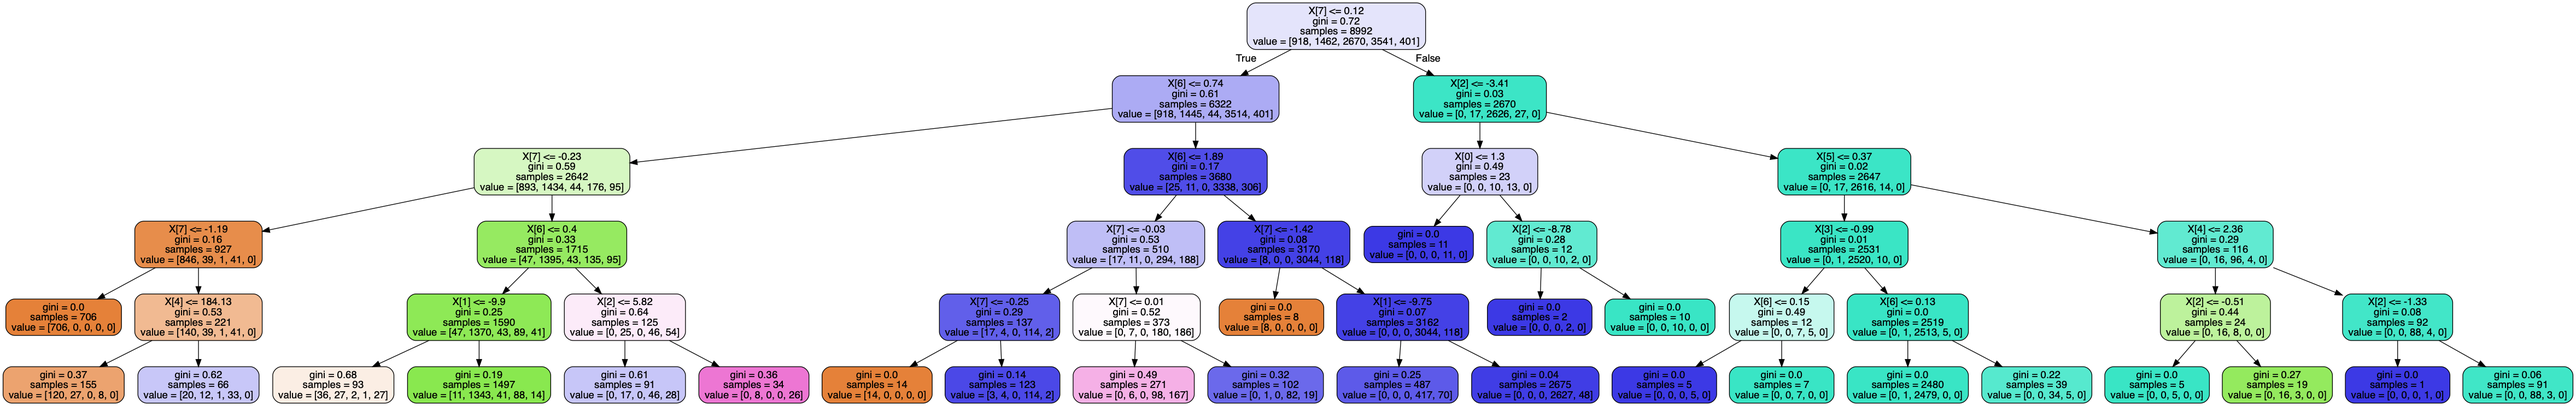
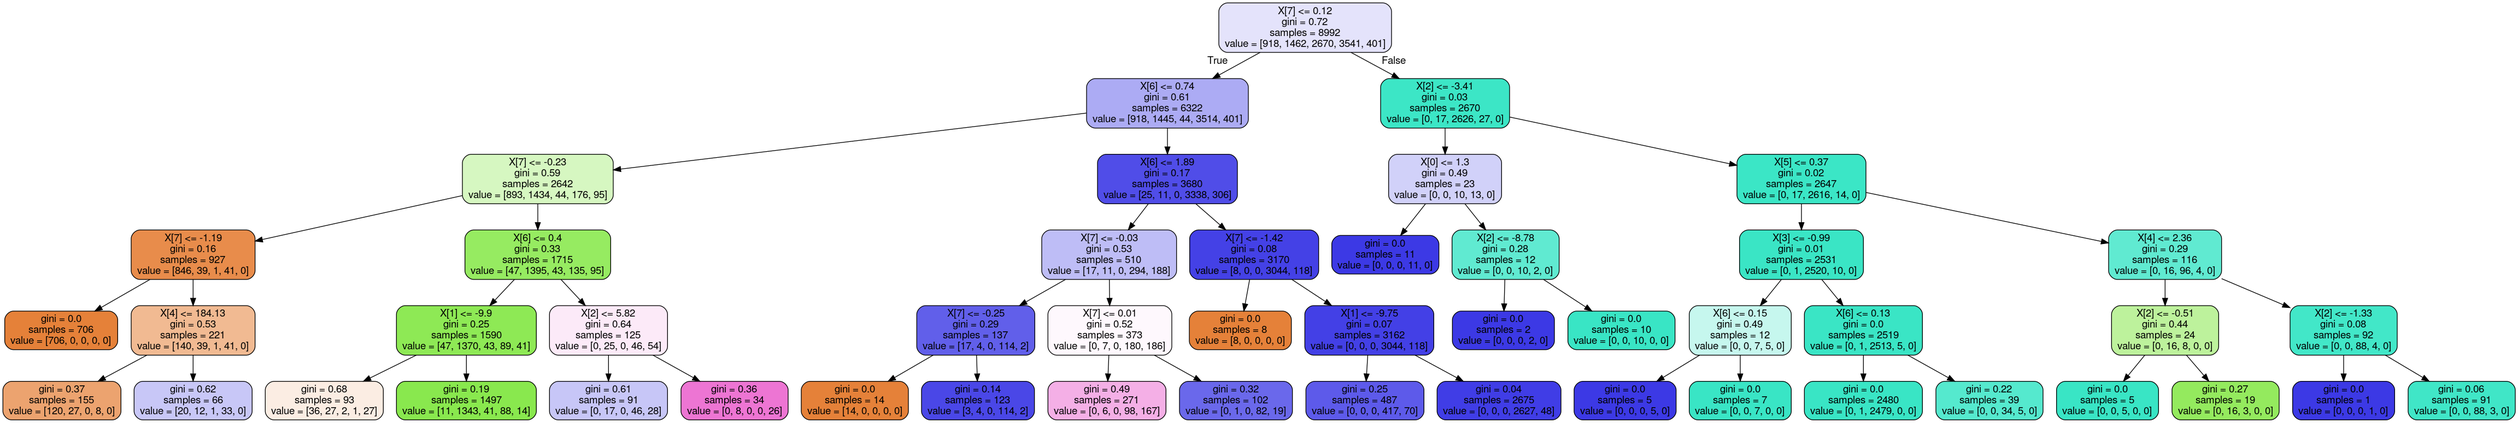
Fix small error in .dot to .png conversion

diff --git a/ClfDecisionTree.py b/ClfDecisionTree.py
@@ -24,9 +24,9 @@ from subprocess import call
 # Imports data being used for training as csv 
 def importTrainData():
 	# Lab Desktop
-	#balance_train_data = pd.read_csv('/home/user1/Documents/ManeuverPredictionML/AllSimulationTrainingData.csv', sep = ',', header = None)
+	balance_train_data = pd.read_csv('/home/user1/Documents/TXStateREU/AllSimulationTrainingData.csv', sep = ',', header = None)
 	# Macbook
-	balance_train_data = pd.read_csv('/Users/ealtenburg/Documents/GitHub/TXStateREU/AllSimulationTrainingData.csv', sep = ',', header = None)
+	#balance_train_data = pd.read_csv('/Users/ealtenburg/Documents/GitHub/TXStateREU/AllSimulationTrainingData.csv', sep = ',', header = None)
 	
 	# Statistics about data (optional print)
 	#print('Dataset Length: ', len(balance_train_data))
@@ -39,9 +39,9 @@ def importTrainData():
 # Import data being used for testing as csv
 def importTestData():
 	# Lab Desktop
-	#balance_test_data = pd.read_csv('/home/user1/Documents/ManeuverPredictionML/TestCSV.csv', sep = ',', header = None)
+	balance_test_data = pd.read_csv('/home/user1/Documents/TXStateREU/TestCSV.csv', sep = ',', header = None)
 	# Macbook
-	balance_test_data = pd.read_csv('/Users/ealtenburg/Documents/GitHub/TXStateREU/TestCSV.csv', sep = ',', header = None)
+	#balance_test_data = pd.read_csv('/Users/ealtenburg/Documents/GitHub/TXStateREU/TestCSV.csv', sep = ',', header = None)
 
 	# Statistics about data (optional print)
 	#print('Dataset Length: ', len(balance_test_data))
@@ -54,9 +54,9 @@ def importTestData():
 # Import data from the prediction that will be used for determining timeline
 def importPredictionData():
 	# Lab Desktop
-	#balance_pred_data = pd.read_csv('/home/user1/Documents/ManeuverPredictionML/predictions.csv', sep = ',', header = None)
+	balance_pred_data = pd.read_csv('/home/user1/Documents/TXStateREU/predictions.csv', sep = ',', header = None)
 	# Macbook
-	balance_pred_data = pd.read_csv('/Users/ealtenburg/Documents/GitHub/TXStateREU/predictions.csv', sep = ',', header = None)
+	#balance_pred_data = pd.read_csv('/Users/ealtenburg/Documents/GitHub/TXStateREU/predictions.csv', sep = ',', header = None)
 
 
 	# Statistics about data (optional print)
@@ -75,9 +75,9 @@ def splitTimelineData():
 	# Import the csv containing the final timeline to isolate the predictions. Overall for testing the answers for accuracy after the smoothing
 
 	# Lab Desktop
-	#X = pd.read_csv('/home/user1/Documents/ManeuverPredictionML/final_timeline.csv', sep = ',', header = None)
+	X = pd.read_csv('/home/user1/Documents/TXStateREU/final_timeline.csv', sep = ',', header = None)
 	# Macbook
-	X = pd.read_csv('/Users/ealtenburg/Documents/GitHub/TXStateREU/final_timeline.csv', sep = ',', header = None)
+	#X = pd.read_csv('/Users/ealtenburg/Documents/GitHub/TXStateREU/final_timeline.csv', sep = ',', header = None)
 
 	predictions = X.values[:, 0]
 
@@ -326,7 +326,7 @@ def main():
 	# Visualize tree in png
 	export_graphviz(classifier_gini, out_file = 'tree.dot', feature_names = None, class_names = None, rounded = True,
 	proportion = False, precision = 2, filled = True)
-	all(['dot', '-Tpng', 'tree.dot', '-o', 'tree.png', '-Gdpi=600'])
+	all(['dot', '-Tpng', 'tree.dot', '-o', 'tree.png', '-Gdpi=6k00'])
 	plt.figure(figsize = (14, 18))
 	plt.imshow(plt.imread('tree.png'))
 	plt.axis('off')
@@ -360,7 +360,7 @@ def main():
 
 	# For converting the tree.dot to the proper tree.png
 	import os
-	os.system("dot -Tpng Tree.dot -o Tree.png")
+	os.system("dot -Tpng tree.dot -o tree.png")
 
 # Calling main method
 if __name__ == "__main__":
